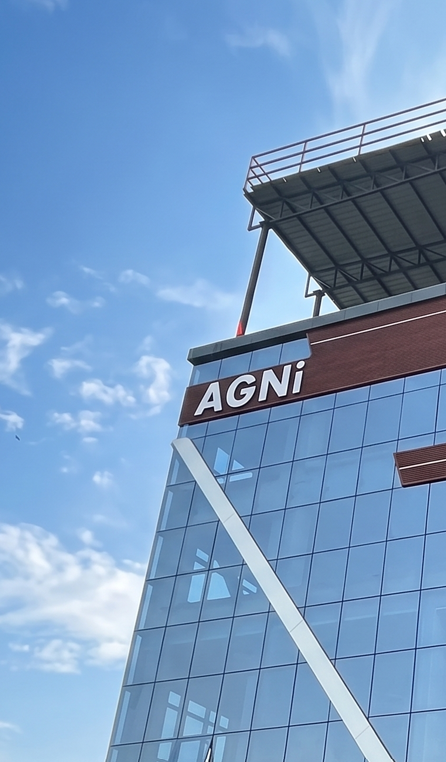
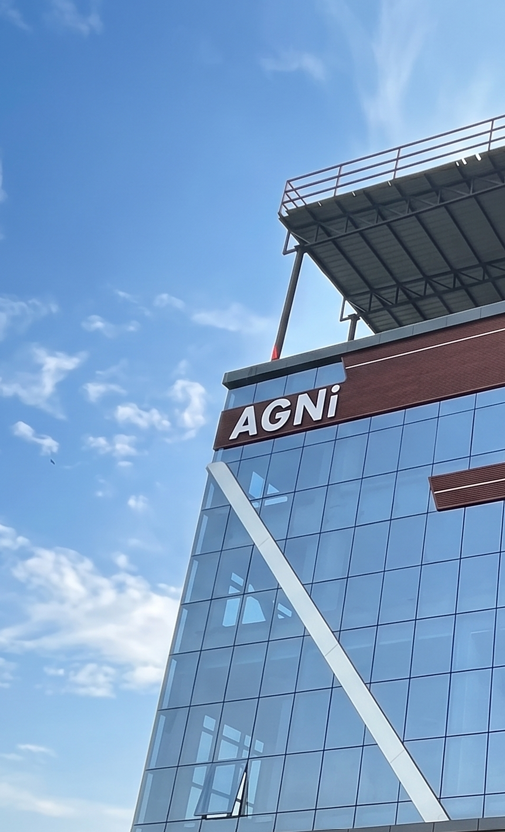
Update cmp-phone.png and bump cache buster

diff --git a/src/layouts/AuthLayout.tsx b/src/layouts/AuthLayout.tsx
@@ -22,7 +22,7 @@ export function AuthLayout() {
     <div className="auth-screen relative min-h-screen overflow-hidden text-white">
       {/* Background Image — desktop: cmp.png centered; mobile: cmp-phone.png object-[center_30%] to show AGNi sign */}
       <picture className="absolute inset-0 z-0 h-full w-full">
-        <source media="(max-width: 1023px)" srcSet="/cmp-phone.png?v=2" />
+        <source media="(max-width: 1023px)" srcSet="/cmp-phone.png?v=3" />
         <source media="(min-width: 1024px)" srcSet="/cmp.png" />
         <img
           ref={bgRef}
